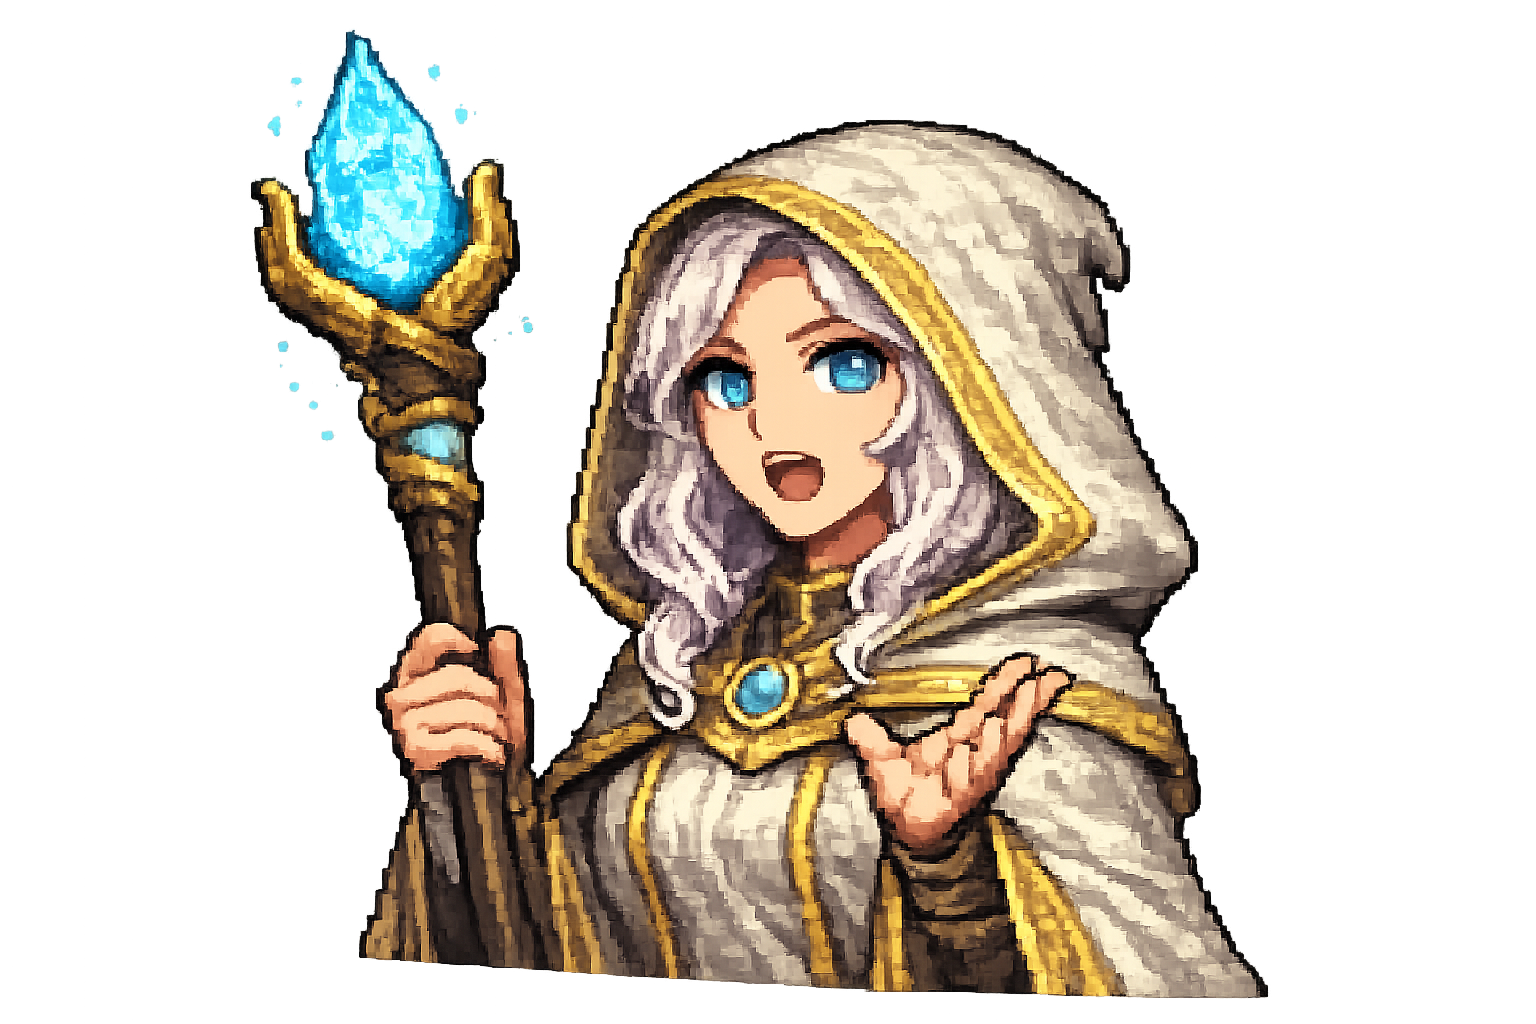
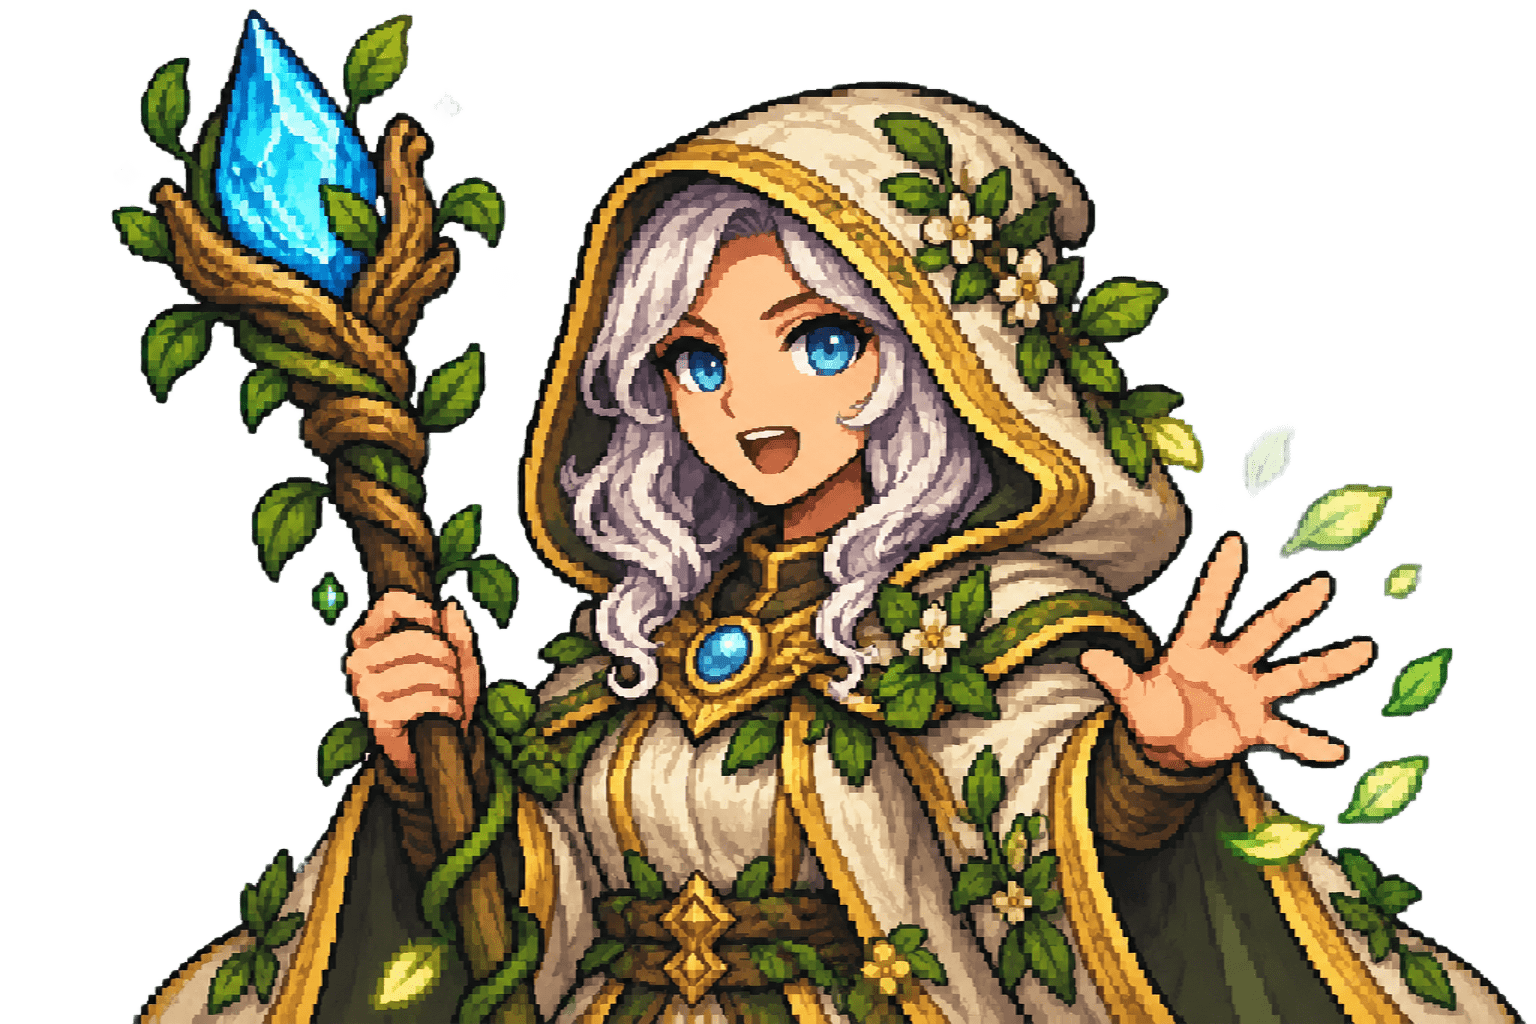
feat: refactor AttackGame component and update theme management; improve CSS consistency

diff --git a/src/components/games/game-temple-of-knowledge/attack-game.tsx b/src/components/games/game-temple-of-knowledge/attack-game.tsx
@@ -1,13 +1,10 @@
 import Phaser from "phaser";
-import { useCallback, useEffect, useRef, useState } from "react";
+import { useEffect, useRef, useState } from "react";
 
-import { ThemeSelector } from "./components";
-import { loadQuestions, setTheme } from "./global-state";
+import { loadQuestions } from "./global-state";
 import PhaserGame from "./main";
 import css from "./styles/game-attack.module.css";
-import type { GameResult, Question, ThemeType } from "./types/types";
-import { announce } from "./utils/announce";
-import { applyTheme } from "./utils/ui-styles";
+import type { GameResult, Question } from "./types/types";
 
 interface AttackGameProps {
   questions: Question[];
@@ -23,7 +20,7 @@ export function AttackGame({ questions, gameId, onResult }: AttackGameProps) {
 
   const containerId = `game-container-${gameId ?? "default"}`;
 
-  const [phaserKey, setPhaserKey] = useState(0);
+  const [phaserKey, _] = useState(0);
 
   // ✅ 1) Cargar questions al globalState
   useEffect(() => {
@@ -31,21 +28,21 @@ export function AttackGame({ questions, gameId, onResult }: AttackGameProps) {
   }, [questions]);
 
   // ✅ 2) Handler del ThemeSelector
-  const handleThemeChange = useCallback(
-    (theme: ThemeType) => {
-      setTheme(theme); // globalState.theme
+  // const handleThemeChange = useCallback(
+  //   (theme: ThemeType) => {
+  //     setTheme(theme); // globalState.theme
 
-      applyTheme(theme);
+  //     applyTheme(theme);
 
-      // Avisar a Phaser para que lo aplique (o reinicie)
-      gameEvents.emit("theme-changed", { theme });
-      setPhaserKey((k) => k + 1);
+  //     // Avisar a Phaser para que lo aplique (o reinicie)
+  //     gameEvents.emit("theme-changed", { theme });
+  //     setPhaserKey((k) => k + 1);
 
-      // Anunciar el cambio
-      announce(`Tema cambiado a ${theme.name}. Presiona jugar para comenzar.`);
-    },
-    [gameEvents],
-  );
+  //     // Anunciar el cambio
+  //     announce(`Tema cambiado a ${theme.name}. Presiona jugar para comenzar.`);
+  //   },
+  //   [gameEvents],
+  // );
 
   // ✅ 3) Crear Phaser una sola vez
   useEffect(() => {
@@ -68,9 +65,9 @@ export function AttackGame({ questions, gameId, onResult }: AttackGameProps) {
   return (
     <>
       {/* Selector de temas */}
-      <div className={css["theme-selector-container"]}>
+      {/* <div className={css["theme-selector-container"]}>
         <ThemeSelector onThemeChange={handleThemeChange} gameEvents={gameEvents} />
-      </div>
+      </div> */}
       <div className={css["gameAttack_container"]} id="gameAttack-id">
         <div
           id="game-announcer"

diff --git a/src/components/games/game-temple-of-knowledge/styles/game-attack.module.css b/src/components/games/game-temple-of-knowledge/styles/game-attack.module.css
@@ -26,8 +26,8 @@
 }
 
 @font-face {
-  font-family: 'PixelFont';
-  src: url('/assets/game-attack/fonts/VT323-Regular.woff2') format('woff2');
+  font-family: "PixelFont";
+  src: url("/assets/game-attack/fonts/VT323-Regular.woff2") format("woff2");
   font-weight: 400;
   font-style: normal;
   font-display: swap;
@@ -42,7 +42,7 @@
   overflow-y: auto;
 
   /* tipografía estilo retro */
-  font-family: 'PixelFont', Arial, sans-serif; /* si no la tienes, se cae a Arial */
+  font-family: "PixelFont", Arial, sans-serif; /* si no la tienes, se cae a Arial */
   font-size: 1rem;
   font-weight: 600;
 
@@ -103,7 +103,7 @@
   width: 100%;
   height: 100%;
   grid-area: 2;
-  font-family: 'PixelFont', Arial, sans-serif;
+  font-family: "PixelFont", Arial, sans-serif;
   font-size: 0.9rem;
   line-height: normal;
   text-align: center;
@@ -176,13 +176,13 @@
 }
 
 .curtain-msg h1 {
-  font-family: 'PixelFont', Arial, sans-serif;
+  font-family: "PixelFont", Arial, sans-serif;
   font-size: 3rem;
 }
 
 .curtain-msg p {
   font-size: 1.3rem;
-  font-family: 'PixelFont', Arial, sans-serif;
+  font-family: "PixelFont", Arial, sans-serif;
   color: color-mix(in srgb, var(--ui-text) 85%, transparent);
 }
 
@@ -198,7 +198,7 @@
   color: var(--text-button);
   font-weight: 700;
   box-shadow: 0 6px 0 var(--box-shadow-button);
-  font-family: 'PixelFont', Arial, sans-serif;
+  font-family: "PixelFont", Arial, sans-serif;
 }
 
 .curtain-next:hover {
@@ -242,7 +242,7 @@
   /* Fondo igual al de la carta */
   background: color-mix(in srgb, var(--ui-panel) 88%, transparent); /* #253a5e con alpha */
   color: var(--ui-text);
-  font-family: 'PixelFont', Arial, sans-serif;
+  font-family: "PixelFont", Arial, sans-serif;
 
   /* Pixel look */
   image-rendering: pixelated;
@@ -279,7 +279,7 @@
 }
 
 .statRow::after {
-  content: '';
+  content: "";
   display: block;
   clear: both;
 }
@@ -331,13 +331,13 @@
 }
 
 /* colores por barra */
-.statBar[data-name='hp'] .fill {
+.statBar[data-name="hp"] .fill {
   background: rgba(220, 80, 80, 0.6);
 }
-.statBar[data-name='attempts'] .fill {
+.statBar[data-name="attempts"] .fill {
   background: rgba(230, 150, 60, 0.65);
 }
-.statBar[data-name='enemies'] .fill {
+.statBar[data-name="enemies"] .fill {
   background: rgba(70, 160, 120, 0.6);
 }
 

diff --git a/src/routes/temple-of-knowledge.tsx b/src/routes/temple-of-knowledge.tsx
@@ -28,15 +28,11 @@ function TempleOfKnowledge() {
       <div className="animate-floaty pointer-events-none absolute -right-16 bottom-10 size-72 rounded-full bg-party-orange/30 blur-2xl" />
 
       <div className="relative z-10">
-        <main className="mx-auto flex max-w-2xl flex-col items-center px-5 pb-16 pt-10 text-center">
+        <main className="mx-auto flex max-w-4xl flex-col items-center px-5 pb-16 pt-10 text-center">
           <Zap className="animate-wiggle size-20 text-game-yellow" strokeWidth={2.5} />
           <h1 className="animate-pop mt-4 text-4xl font-bold drop-shadow-[0_4px_0_oklch(0.2_0.12_295)] sm:text-5xl">
             Temple of Knowledge
           </h1>
-          <p className="mt-3 text-lg font-medium text-muted-foreground">
-            ¡Este juego se está preparando! Muy pronto podrás responder preguntas contra el reloj.
-            ⏱
-          </p>
           <AttackGame questions={TEMPLE_OF_KNOWLEDGE_QUESTIONS} />
           <Link
             to="/"

diff --git a/src/components/games/game-temple-of-knowledge/utils/theme-manager.ts b/src/components/games/game-temple-of-knowledge/utils/theme-manager.ts
@@ -1,13 +1,20 @@
 import { ThemeType, WORLD_THEMES } from "../types/types";
 
+// Tema por defecto (Bosque)
+const DEFAULT_THEME: ThemeType = (() => {
+  const theme = WORLD_THEMES[1];
+  if (!theme) throw new Error("WORLD_THEMES[1] (Cocina) no existe");
+  return theme;
+})();
+
 // Estado global del tema
 class ThemeManager {
   private currentTheme: ThemeType;
   private listeners: ((theme: ThemeType) => void)[] = [];
 
   constructor() {
-    // Tema por defecto (Cocina)
-    this.currentTheme = WORLD_THEMES[0];
+    // Tema por defecto (Castillo)
+    this.currentTheme = DEFAULT_THEME;
   }
 
   // Obtener el tema actual
@@ -58,7 +65,7 @@ class ThemeManager {
 
   // Resetear al tema por defecto
   reset(): void {
-    this.currentTheme = WORLD_THEMES[0]; // Cocina como tema por defecto
+    this.currentTheme = DEFAULT_THEME; // Castillo como tema por defecto
     this.notifyListeners();
     this.applyThemeToDOM();
   }

diff --git a/src/components/games/game-temple-of-knowledge/components/theme-selector.tsx b/src/components/games/game-temple-of-knowledge/components/theme-selector.tsx
@@ -46,7 +46,7 @@ export const ThemeSelector: FC<ThemeSelectorProps> = ({ onThemeChange, gameEvent
         {availableThemes.map((theme) => (
           <button
             key={theme.id}
-            className={`${css["theme-button"]} ${currentTheme.id === theme.id ? `${css.active}` : ""}`}
+            className={`${css["theme-button"]} ${currentTheme.id === theme.id ? css["active"] : ""}`}
             onClick={() => handleThemeSelect(theme)}
             style={
               {

diff --git a/src/routes/README.md b/src/routes/README.md
@@ -7,15 +7,15 @@ is `src/routes/__root.tsx`.
 
 ## Conventions
 
-| File | URL |
-| --- | --- |
-| `index.tsx` | `/` |
-| `about.tsx` | `/about` |
-| `users/index.tsx` | `/users` |
-| `users/$id.tsx` | `/users/:id` (dynamic — bare `$`, no curly braces) |
-| `posts/{-$category}.tsx` | `/posts/:category?` (optional segment) |
-| `files/$.tsx` | `/files/*` (splat — read via `_splat` param, never `*`) |
-| `_layout.tsx` | layout route (renders children via `<Outlet />`) |
-| `__root.tsx` | app shell — wraps every page; preserve `<Outlet />` |
+| File                     | URL                                                     |
+| ------------------------ | ------------------------------------------------------- |
+| `index.tsx`              | `/`                                                     |
+| `about.tsx`              | `/about`                                                |
+| `users/index.tsx`        | `/users`                                                |
+| `users/$id.tsx`          | `/users/:id` (dynamic — bare `$`, no curly braces)      |
+| `posts/{-$category}.tsx` | `/posts/:category?` (optional segment)                  |
+| `files/$.tsx`            | `/files/*` (splat — read via `_splat` param, never `*`) |
+| `_layout.tsx`            | layout route (renders children via `<Outlet />`)        |
+| `__root.tsx`             | app shell — wraps every page; preserve `<Outlet />`     |
 
 `routeTree.gen.ts` is auto-generated. Don't edit it by hand.
